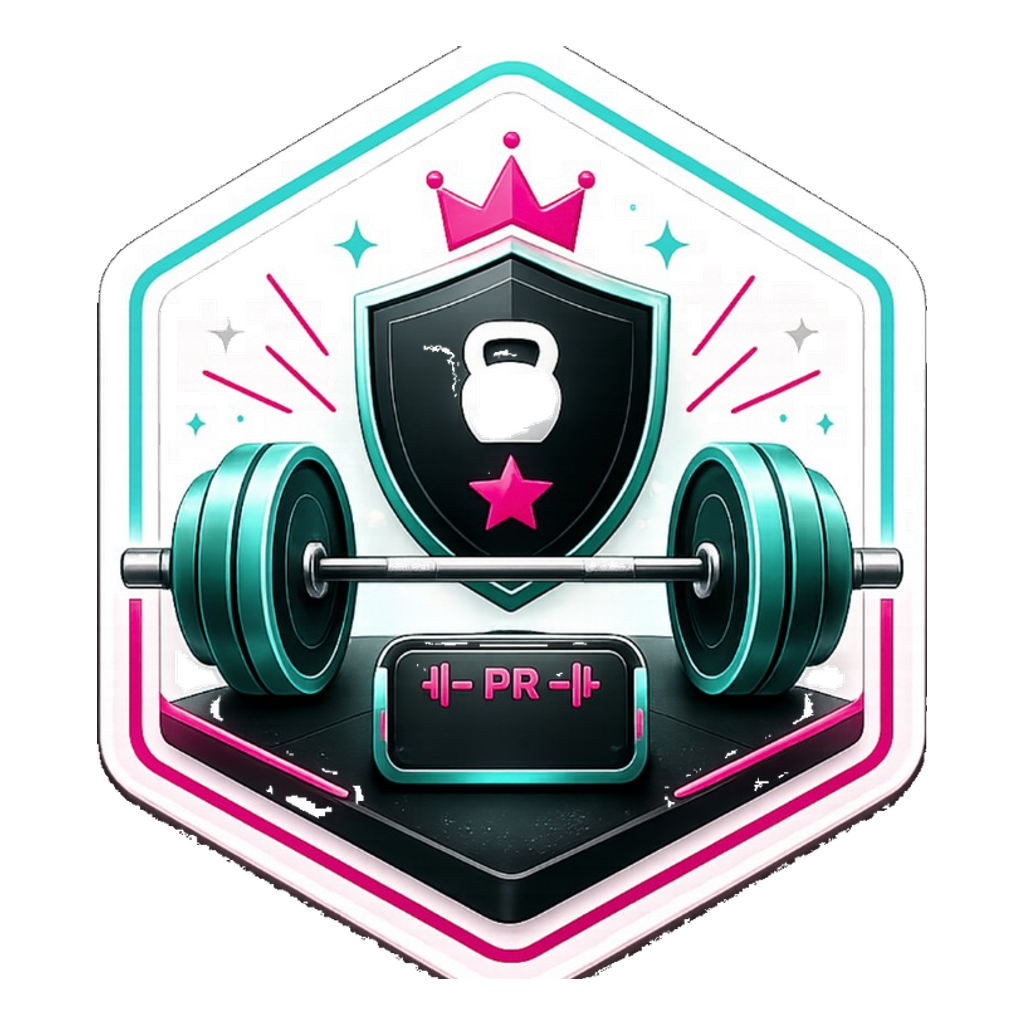
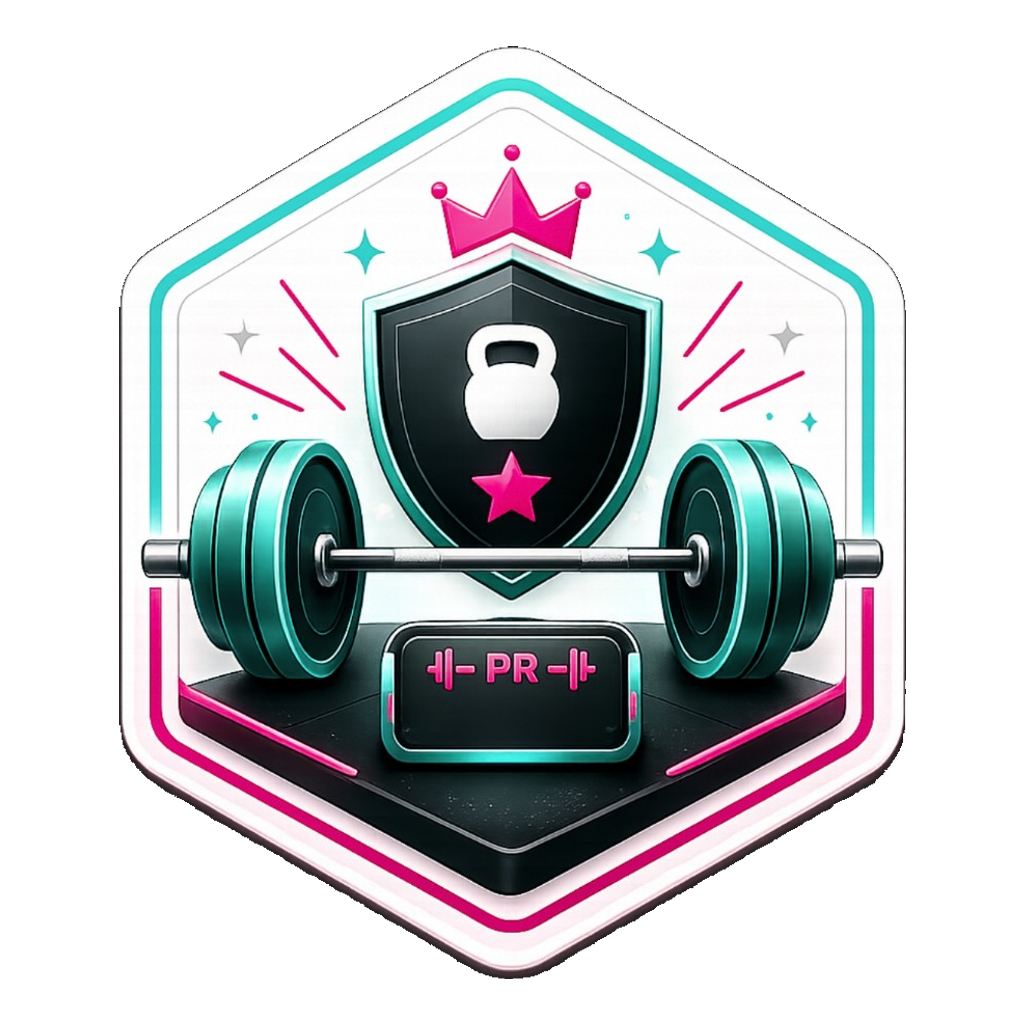
Fix Tungvekter and Treningsdager hex edge transparency
Re-export from source with black-edge-only stripping to preserve white hex borders.

Changed region(s): [[0.0938, 0.0312, 0.9062, 0.9688]]

diff --git a/src/app/badgeAssets.ts b/src/app/badgeAssets.ts
@@ -1,5 +1,5 @@
 /** Felles badge-bilder (PNG 1024×1024, normalisert visuell størrelse). */
-export const BADGE_ASSET_VERSION = "37";
+export const BADGE_ASSET_VERSION = "38";
 
 export function badgeAssetUrl(path: string): string {
   const base = path.split("?")[0] || path;
